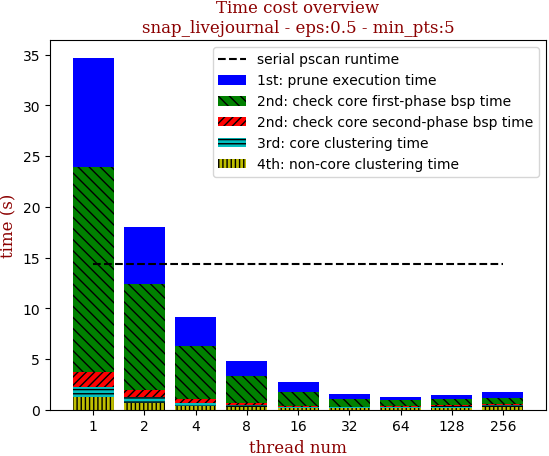
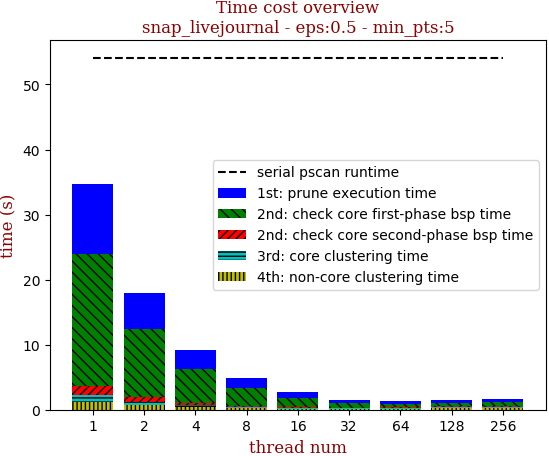
update pscan runtime statistics scripts

diff --git a/python_experiments/workload_figure_knl.py b/python_experiments/workload_figure_knl.py
@@ -1,0 +1,223 @@
+import os, re, decimal
+from functools import partial
+
+import matplotlib.pyplot as plt
+
+# 1st: same
+edge_tag = 'num of edges'
+prune0_tag = 'prune0 definitely not reachable'
+prune1_tag = 'prune1 definitely reachable'
+
+# 2nd: different
+intersect_tag = 'intersection times'
+cmp0_tag = 'cmp0'
+cmp1_tag = 'cmp1'
+cmp_equ_tag = 'equal cmp'
+runtime_tag = 'Total time without IO'
+
+# suffix
+pscan_tag = ', pscan'
+pscan_plus_tag = ', pscan+'
+
+
+def format_str(float_num):
+    return str(decimal.Decimal.from_float(float_num).quantize(decimal.Decimal('0.000')))
+
+
+def filter_lines_by_tag(tag, lines):
+    return map(lambda my_str: eval(my_str.split(':')[-1].replace('ms', '')),
+               filter(lambda line: tag in line, lines))
+
+
+def get_workload_statistics(dataset, eps, min_pts, root_dir_path='.'):
+    file_path = os.sep.join([root_dir_path, dataset, 'eps-' + str(eps), 'min_pts-' + str(min_pts),
+                             '-'.join(['output', dataset, str(eps), str(min_pts)]) + '.txt'])
+    with open(file_path) as ifs:
+        lines = ifs.readlines()
+
+    # runtime unit: ms
+    runtime_lst = map(lambda time_str: eval(time_str.split('ms')[0]) if 'ms' in time_str else eval(time_str) / 1000,
+                      map(lambda my_str: my_str.split(':')[-1], filter(lambda line: runtime_tag in line, lines)))
+
+    # 2nd: different
+    ret_dict = {runtime_tag + pscan_tag: runtime_lst[0]}
+    return ret_dict
+
+
+def case_study_fix_eps_min_pts(data_set_lst, eps, min_pts, root_dir_path='.'):
+    for data_set in data_set_lst:
+        ret_dict = get_workload_statistics(data_set, eps, min_pts, root_dir_path)
+        print ret_dict
+
+
+# tags for figure drawing, legends
+display_pscan_runtime_tag = 'serial pscan runtime'
+display_pscan_plus_runtime_tag = 'serial pscan+ runtime'
+
+display_pscan_eval_tag = 'pscan eval number'
+display_pscan_plus_eval_tag = 'pscan+ eval number'
+display_prune0_tag = prune0_tag
+display_prune1_tag = prune1_tag
+
+
+def min_runtime(statistics_dict_lst):
+    pscan_runtime_lst = map(lambda statistics_dict: statistics_dict[runtime_tag + pscan_tag], statistics_dict_lst)
+    pscan_plus_runtime_lst = map(lambda statistics_dict: statistics_dict[runtime_tag + pscan_plus_tag],
+                                 statistics_dict_lst)
+    return min(min(pscan_plus_runtime_lst, pscan_runtime_lst))
+
+
+def to_display_dict(statistics_dict, min_runtime_val):
+    keys = [display_prune0_tag, display_prune1_tag, display_pscan_eval_tag, display_pscan_plus_eval_tag]
+    values = map(lambda value: float(value * 2) / statistics_dict[edge_tag],
+                 [statistics_dict[prune0_tag], statistics_dict[prune1_tag],
+                  statistics_dict[intersect_tag + pscan_tag], statistics_dict[intersect_tag + pscan_plus_tag]])
+    display_dict = dict(zip(keys, values))
+
+    display_dict[display_pscan_runtime_tag] = float(statistics_dict[runtime_tag + pscan_tag]) / min_runtime_val
+    display_dict[display_pscan_plus_runtime_tag] = float(
+        statistics_dict[runtime_tag + pscan_plus_tag]) / min_runtime_val
+    return display_dict
+
+
+def display_workload_runtime(eps_lst, display_lst, title_append_txt='', is_display_naive=False):
+    tag_list = [display_pscan_plus_eval_tag, display_pscan_eval_tag,
+                display_prune0_tag, display_prune1_tag]
+
+    # draw after get data, with partial binding technique
+    shape_color_lst = ['g^-', 'rs-', 'c<-', 'y>-', 'mx-', 'k--']
+
+    result_lst = map(lambda tag:
+                     map(lambda display: display[tag], display_lst), tag_list)
+    if is_display_naive:
+        shape_color_lst = ['b.-', 'g^-', 'rs-', 'c<-', 'y>-', 'mx-', 'k--']
+        result_lst = [map(lambda my_pair: 1 - my_pair[0] - my_pair[1],
+                          zip(result_lst[-1], result_lst[-2]))] + result_lst
+
+    prev_partial_func = plt.plot
+    cur_shape_color_idx = 0
+    for portion_lst in result_lst:
+        # partially bind parameters
+        prev_partial_func = partial(prev_partial_func, eps_lst, portion_lst,
+                                    shape_color_lst[cur_shape_color_idx])
+        cur_shape_color_idx += 1
+    prev_partial_func()
+
+    plt.legend(['max eval number'] + tag_list)
+    font = {'family': 'serif', 'color': 'darkred', 'weight': 'normal', 'size': 12, }
+    plt.title('Workload portion\n' + title_append_txt
+              if title_append_txt != '' else 'Workload portion', fontdict=font)
+    plt.xlabel('eps', fontdict=font)
+    plt.ylabel('portion', fontdict=font)
+    plt.ylim([0.0, 1.1])
+    plt.savefig(local_folder + os.sep + title_append_txt.replace(' ', '') + '-' + 'workload.png',
+                bbox_inches='tight', pad_inches=0, transparent=True)
+
+    table_rows = [' | '.join(['tag'] + map(lambda eps_val: 'eps-' + str(eps_val), eps_lst)),
+                  ' | '.join(['---' for _ in xrange(len(eps_lst) + 1)]),
+                  ' | '.join([display_prune0_tag] + map(format_str, result_lst[-2])),
+                  ' | '.join([display_prune1_tag] + map(format_str, result_lst[-1])),
+                  ' | '.join(['max eval number'] + map(format_str, result_lst[0])),
+                  ' | '.join([display_pscan_eval_tag] + map(format_str, result_lst[2])),
+                  ' | '.join([display_pscan_plus_eval_tag] + map(format_str, result_lst[1]))]
+
+    plt.close()
+    return '\n'.join(table_rows)
+
+
+def display_runtime(eps_lst, display_lst, title_append_txt=''):
+    tag_list = [display_pscan_plus_runtime_tag, display_pscan_runtime_tag]
+
+    # draw after get data, with partial binding technique
+    shape_color_lst = ['mx-', 'k--']
+    prev_partial_func = plt.plot
+    cur_shape_color_idx = 0
+
+    result_lst = map(lambda tag:
+                     map(lambda display: display[tag], display_lst), tag_list)
+
+    for portion_lst in result_lst:
+        # partially bind parameters
+        prev_partial_func = partial(prev_partial_func, eps_lst, portion_lst,
+                                    shape_color_lst[cur_shape_color_idx])
+        cur_shape_color_idx += 1
+    prev_partial_func()
+
+    plt.legend(tag_list)
+    font = {'family': 'serif', 'color': 'darkred', 'weight': 'normal', 'size': 12, }
+    plt.title('Runtime\n' + title_append_txt
+              if title_append_txt != '' else 'Runtime', fontdict=font)
+    plt.xlabel('eps', fontdict=font)
+    plt.ylabel('time (s)', fontdict=font)
+
+    max_val = max(max(result_lst[0]), max(result_lst[1]))
+    plt.ylim([0.0, max_val * 1.1])
+    plt.savefig(local_folder + os.sep + title_append_txt.replace(' ', '') + '-' + 'runtime.png',
+                bbox_inches='tight', pad_inches=0, transparent=True)
+    # plt.show()
+    plt.close()
+
+    table_rows = [' | '.join([display_pscan_runtime_tag] + map(format_str, result_lst[1])),
+                  ' | '.join([display_pscan_plus_runtime_tag] + map(format_str, result_lst[0])), ]
+    return '\n'.join(table_rows)
+
+
+def case_study0():
+    # case study 0
+    eps = 0.3
+    min_pts = 5
+    root_dir_path = server_folder
+    case_study_fix_eps_min_pts(data_set_lst, eps, min_pts, root_dir_path)
+    print
+
+
+def case_study1(min_pts=5, file_name='ReadMe.md'):
+    # case study 1
+    root_dir_path = server_folder
+
+    with open(markdown_folder + os.sep + file_name, 'w') as ofs:
+        parameter_eps_lst = [float(i + 1) / 10 for i in xrange(9)]
+        for data_set in data_set_lst:
+            statistics_lst = map(lambda eps: get_workload_statistics(data_set, eps, min_pts, root_dir_path),
+                                 parameter_eps_lst)
+            display_lst = map(lambda statistics_dict: to_display_dict(statistics_dict, 1000), statistics_lst)
+            append_txt = ' - '.join([data_set, 'min_pts:' + str(min_pts)])
+            table_lines = display_workload_runtime(parameter_eps_lst, display_lst, title_append_txt=append_txt,
+                                                   is_display_naive=True)
+            runtime_rows = display_runtime(parameter_eps_lst, display_lst, title_append_txt=append_txt)
+
+            lines = ['## ' + data_set]
+
+            def get_link():
+                workload_link = local_folder.replace('.', '../..') + os.sep + append_txt.replace(' ',
+                                                                                                 '') + '-' + 'workload.png'
+                runtime_link = local_folder.replace('.', '../..') + os.sep + append_txt.replace(' ',
+                                                                                                '') + '-' + 'runtime.png'
+                return ' | '.join(['![' + data_set + '-workload](' + workload_link + ')',
+                                   '![' + data_set + '-runtime](' + runtime_link + ')'])
+
+            lines.append('\n'.join(['workload | runtime\n--- | ---', get_link()]))
+            lines.append('\n'.join([table_lines, runtime_rows]))
+            ofs.write('\n\n'.join(lines) + '\n\n')
+
+
+if __name__ == '__main__':
+    server_folder = '/mnt/mount-gpu/d2/yche/projects/python_experiments/workload-work-efficient-2'
+    local_folder = './figures/' + 'workload-efficient'
+    markdown_folder = 'case_studies/figures-case-study12-workload-efficient-2'
+    os.system('mkdir -p ' + local_folder)
+    os.system('mkdir -p ' + markdown_folder)
+
+    data_set_lst = ['small_snap_dblp',
+                    'snap_pokec', 'snap_livejournal', 'snap_orkut',
+                    'webgraph_uk', 'webgraph_webbase',
+                    'webgraph_twitter',
+                    #  'snap_friendster',
+                    '10million_avgdeg15_maxdeg50_Cdefault'
+                    ]
+
+    case_study0()
+
+    min_pts_lst = [25, 50]
+    for min_pts in min_pts_lst:
+        case_study1(min_pts=min_pts, file_name='ReadMe' + '-' + str(min_pts) + '.md')

diff --git a/python_experiments/run_workload_experiment_pscan_only.py b/python_experiments/run_workload_experiment_pscan_only.py
@@ -1,0 +1,76 @@
+import os
+import time
+
+if __name__ == '__main__':
+    # data_set_lst = ['small_snap_dblp']
+    data_set_lst = [
+        # 'small_snap_dblp',
+        # 'snap_livejournal',
+        'snap_orkut',
+        # 'snap_pokec',
+        # 'lfr_benchmark/10million_avgdeg15_maxdeg50_Cdefault',
+        # 'webgraph_uk',
+        'webgraph_webbase',
+        'webgraph_twitter', 'snap_friendster'
+    ]
+    # parameter_eps_lst = [0.3]
+    # parameter_min_pts_lst = [5]
+
+    parameter_eps_lst = [float(i + 1) / 10 for i in xrange(9)]
+    # parameter_min_pts_lst = [2, 5, 10, 15]
+    parameter_min_pts_lst = [5]
+    # parameter_min_pts_lst = [25, 50]
+
+    data_set_lst = map(lambda name: os.pardir + os.sep + 'dataset' + os.sep + name, data_set_lst)
+
+    print 'data set:', data_set_lst
+    for data_set in data_set_lst:
+        assert 0 == os.system('ls ' + data_set + '>' + 'tmp_ls_files.txt')
+    print parameter_eps_lst
+    print parameter_min_pts_lst
+
+    for data_set_path in data_set_lst:
+        for eps in parameter_eps_lst:
+            for min_pts in parameter_min_pts_lst:
+                # statistics output dir and file
+                data_set_name = data_set_path.split(os.sep)[-1]
+                statistics_dir = os.sep.join(
+                    map(str,
+                        ['.', 'knl-workload-pscan-only', data_set_name, 'eps-' + str(eps),
+                         'min_pts-' + str(min_pts)]))
+                os.system('mkdir -p ' + statistics_dir)
+                statistics_file_path = statistics_dir + os.sep + '-'.join(
+                    map(str, ['output', data_set_name, eps, min_pts])) + '.txt'
+
+                # 1st: splitter, record start time
+                my_splitter = '-'.join(['*' for _ in xrange(20)])
+                os.system(' '.join(
+                    ['echo', my_splitter + time.ctime() + my_splitter, '>>', statistics_file_path]))
+
+
+                # 2nd: execute pscan+ with different parameters
+                def write_split():
+                    with open(statistics_file_path, 'a+') as ifs:
+                        ifs.write(my_splitter + my_splitter + '\n')
+                        ifs.write(my_splitter + my_splitter + '\n')
+
+
+                # check md5, line count and byte count
+                def check_result():
+                    res_file_name = '-'.join(map(str, ['result', eps, min_pts])) + '.txt'
+                    res_file_path = data_set_path + os.sep + res_file_name
+                    os.system(' '.join(['md5sum', res_file_path, '>>', statistics_file_path]))
+                    os.system(' '.join(['wc -l', res_file_path, '>>', statistics_file_path]))
+                    os.system(' '.join(['du -b', res_file_path, '>>', statistics_file_path]))
+
+
+                # pscan statistics, pscan+ statistics, pscan, pscan+
+                params_lst = map(str, ['../pSCAN/pscan', data_set_path,
+                                       eps, min_pts, 'output', '>>', statistics_file_path])
+                os.system(' '.join(params_lst))
+                check_result()
+
+                with open(statistics_file_path, 'a+') as ifs:
+                    ifs.write(my_splitter + time.ctime() + my_splitter)
+                    ifs.write('\n\n\n\n')
+                print 'finish:', '-'.join(map(str, [data_set_path, eps, min_pts]))

diff --git a/python_experiments/scalability_figure_knl.py b/python_experiments/scalability_figure_knl.py
@@ -1,7 +1,7 @@
 import matplotlib.pyplot as plt
 import sys, os
 from functools import partial
-import workload_figure
+import workload_figure_knl
 import math
 
 # total time tag, and five separate time tag: first three parallel, last two serial
@@ -44,8 +44,8 @@ def parse_lines(lines):
 def get_statistics(dataset, eps, min_pts, figure_folder, root_folder='.'):
     info_dict = dict()
     dir_path = os.sep.join([root_folder, figure_folder, dataset, 'eps-' + str(eps), 'min_pts-' + str(min_pts)])
-    pscan_time = workload_figure.get_workload_statistics(dataset, eps, min_pts, root_folder + os.sep + 'worklaod')[
-        workload_figure.runtime_tag + workload_figure.pscan_tag]
+    pscan_time = workload_figure_knl.get_workload_statistics(dataset, eps, min_pts, root_folder + os.sep + 'knl-workload-pscan-only')[
+        workload_figure_knl.runtime_tag + workload_figure_knl.pscan_tag]
 
     for root, dirs, files in os.walk(dir_path):
         for file in files:

diff --git a/python_experiments/scalability_differ_eps_knl.py b/python_experiments/scalability_differ_eps_knl.py
@@ -23,12 +23,12 @@ if __name__ == '__main__':
     data_set_lst = [
         # 'small_snap_dblp',
         # 'snap_pokec',
-        # 'snap_livejournal',
+        'snap_livejournal',
         # 'snap_orkut',
         # 'webgraph_uk',
         # 'webgraph_webbase',
         # 'webgraph_twitter',
-        'snap_friendster'
+        # 'snap_friendster'
     ]
 
     figure_folder = 'scalability_simd_paper'
